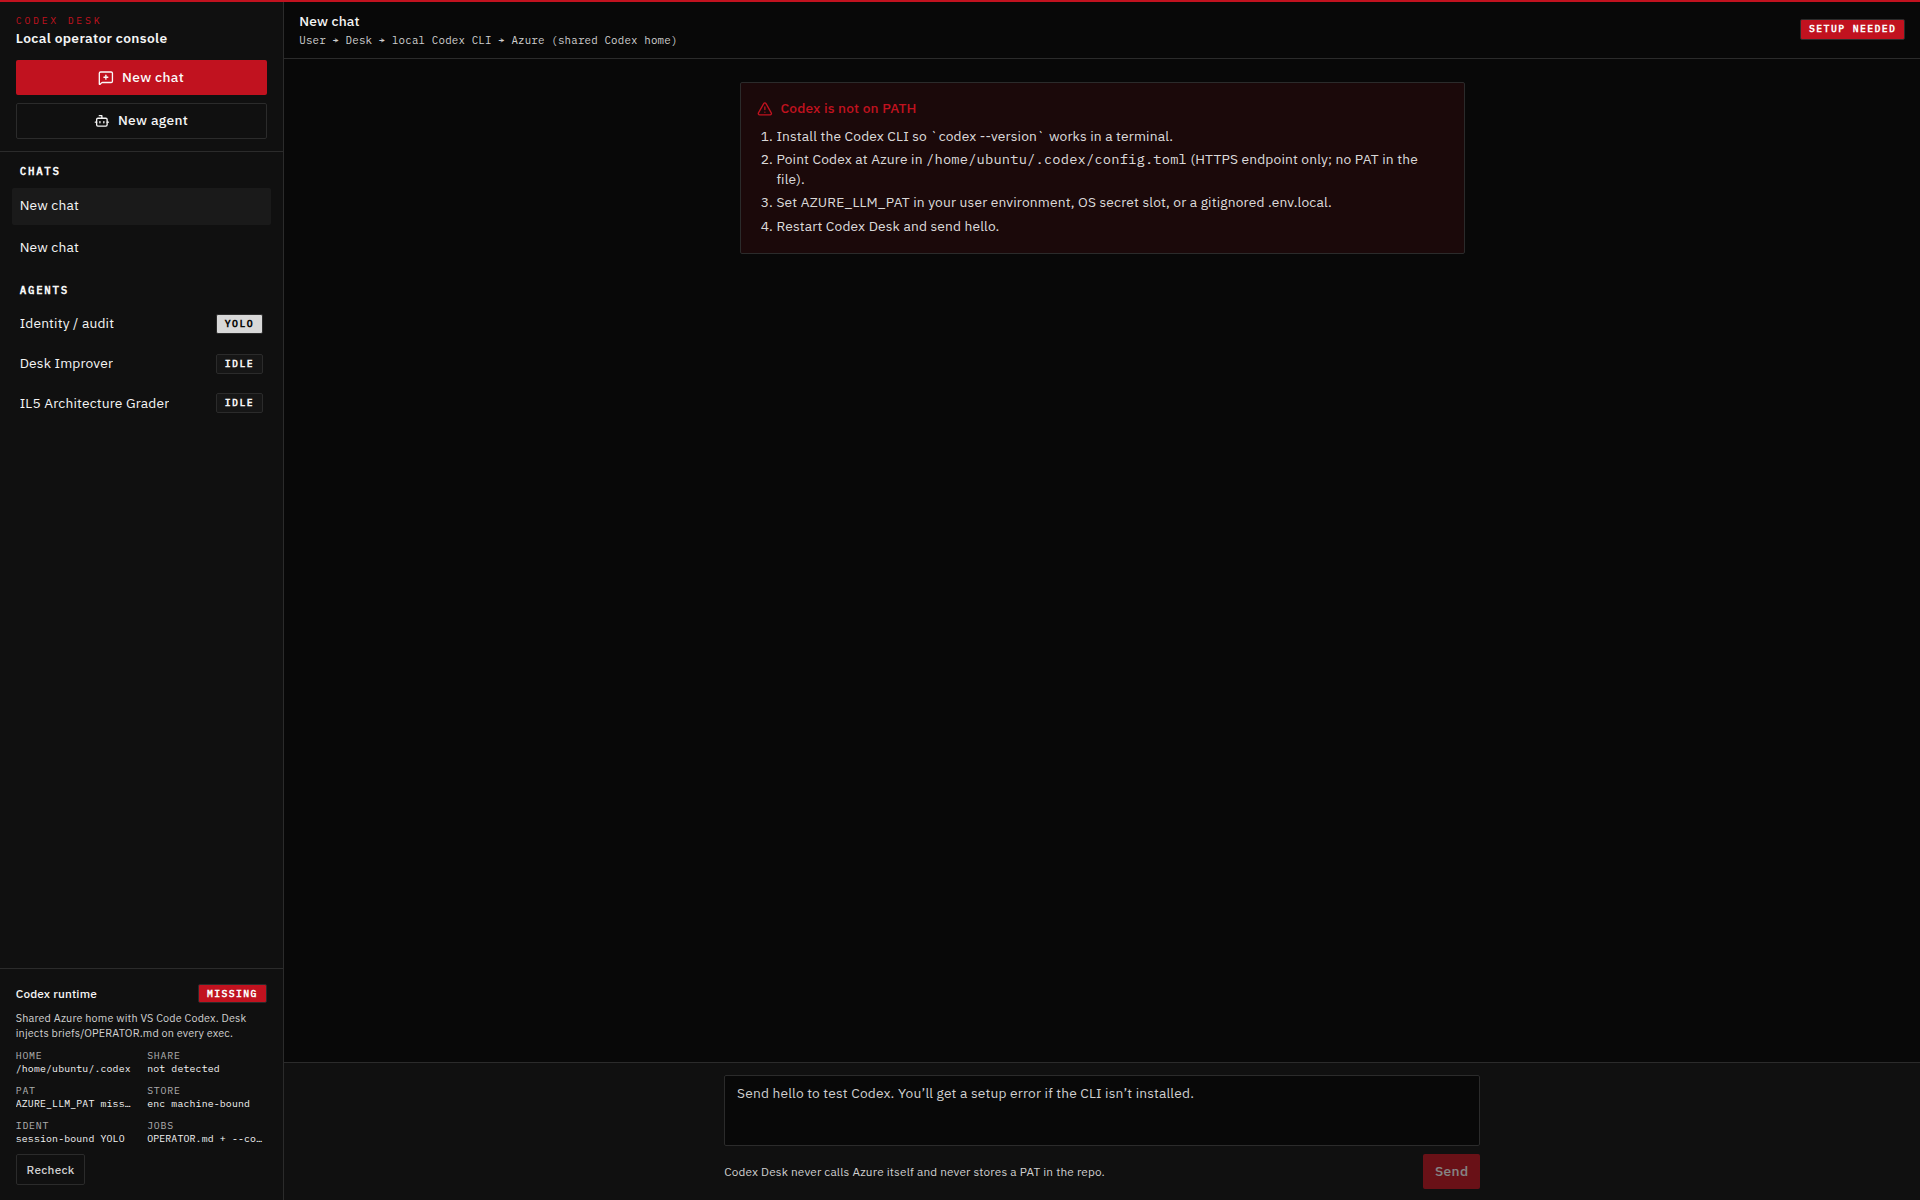
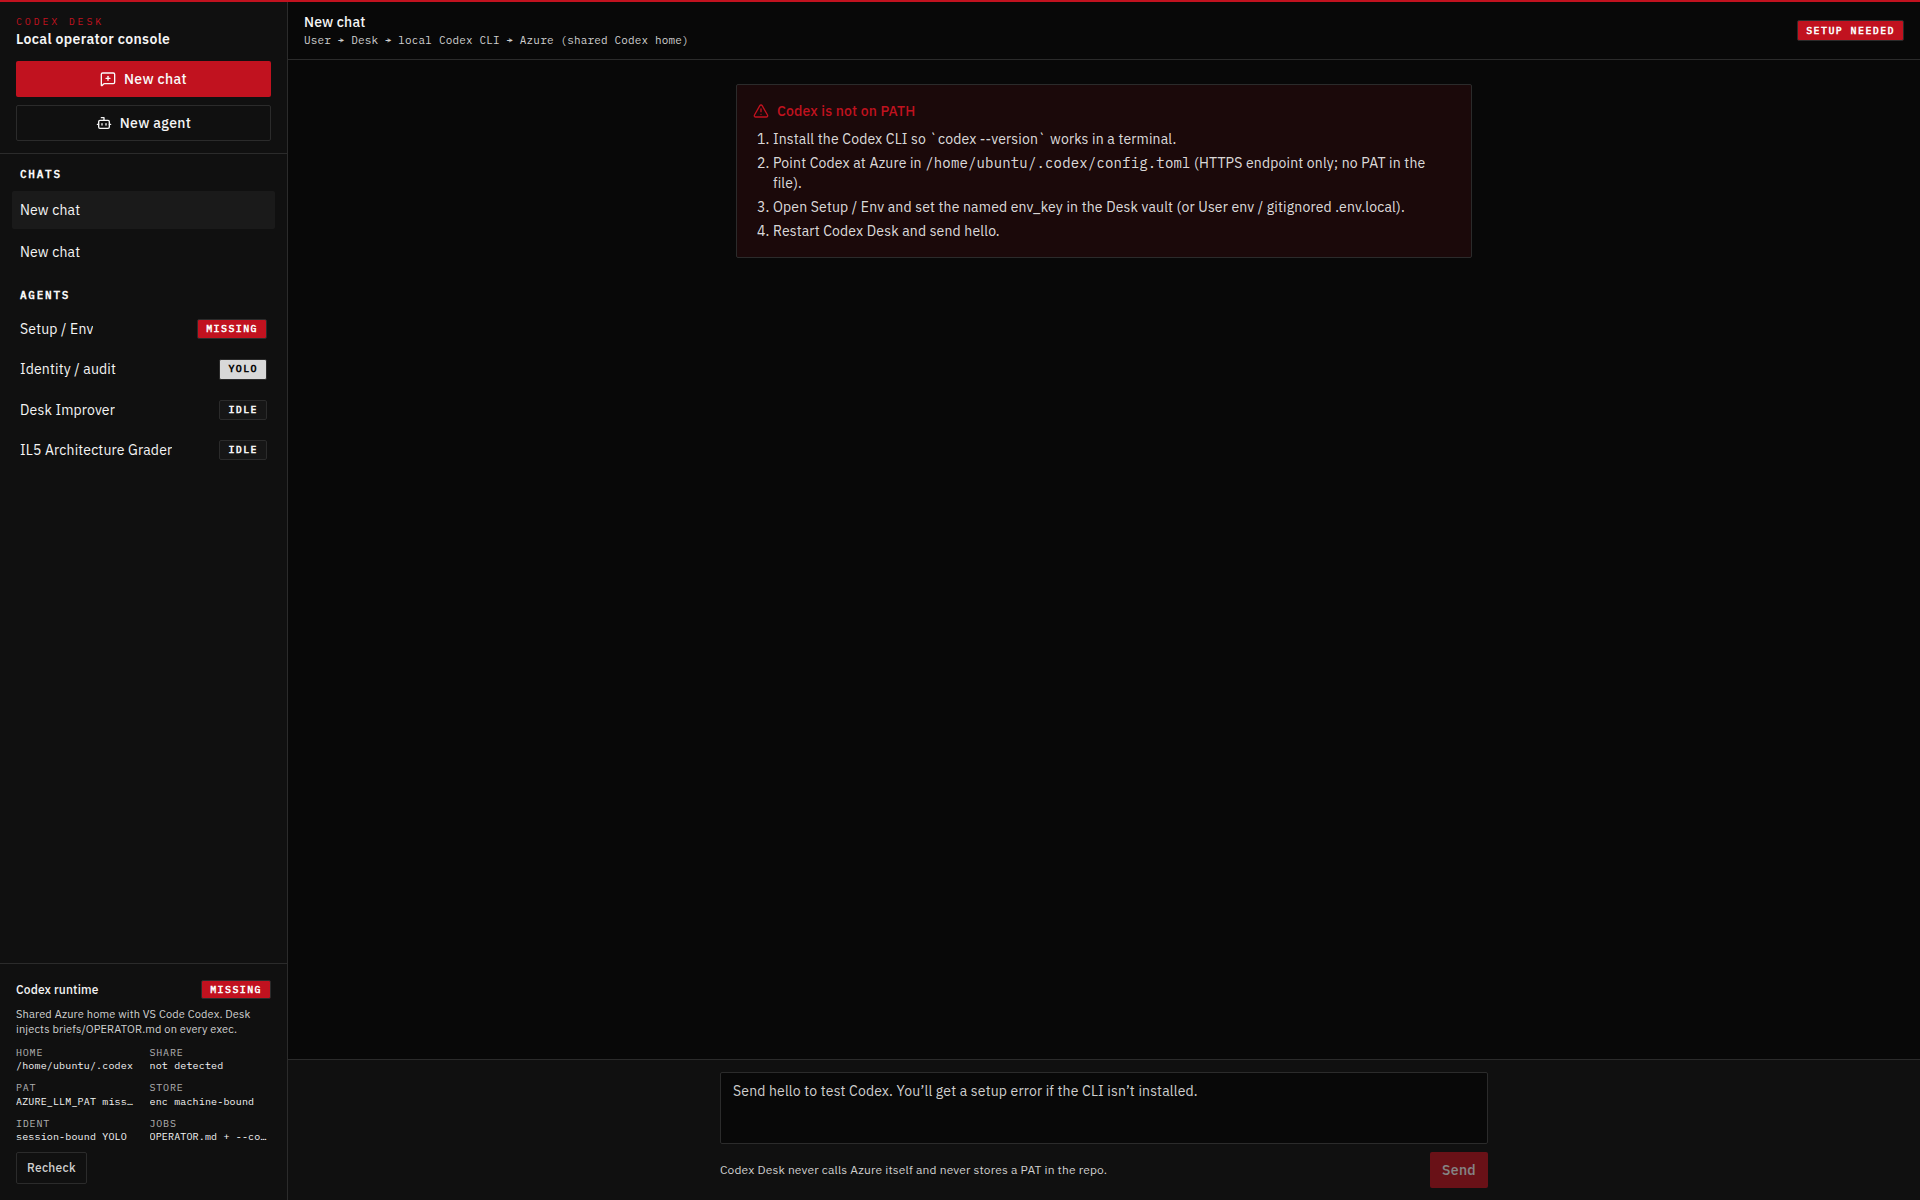
Refresh README gallery to HARNESS-COMPLETE chrome
Replace pre-harness 01–04 captures so captions match Setup/Env, the
six-job grid, autonomy ladder, and failure-upgrade stepper. 04 is now
the env_key inventory (honest MISSING, no secret values).

diff --git a/README.md b/README.md
@@ -211,19 +211,19 @@ Live captures of the local operator shell. Theme is orbital / aero-night only.
 
 ![Main chat and SETUP NEEDED](docs/screenshots/01-setup-chat.png)
 
-Main chat / **SETUP NEEDED**. Codex is not on PATH (runtime **MISSING**, not FOUND). Share not detected; PAT `AZURE_LLM_PAT` miss… Store enc machine-bound. **Identity / audit** **YOLO**. IDENT **session-bound YOLO**. Desk Improver and IL5 Architecture Grader **IDLE**.
+Main chat / **SETUP NEEDED**. Codex is not on PATH (runtime **MISSING**, not FOUND). Sidebar **Setup / Env** **MISSING**. Share not detected; PAT `AZURE_LLM_PAT` miss… Store enc machine-bound. **Identity / audit** **YOLO**. IDENT **session-bound YOLO**. Desk Improver and IL5 Architecture Grader **IDLE**. Setup card step 3: Open **Setup / Env** and set the named `env_key` in the Desk vault.
 
 ![Agents sidebar](docs/screenshots/02-agents-list.png)
 
-Agents list plus operator `hello`. Banner **SETUP NEEDED**. Codex is not on PATH / runtime **MISSING**. Transcript: OPERATOR `hello`, then **CODEX · SETUP OR RUNTIME ERROR** — `codex` CLI was not found on PATH. **Identity / audit** **YOLO**; Desk Improver and IL5 Architecture Grader **IDLE**. Not an Azure-auth HOLD.
+Agents list plus operator `hello`, with **Setup / Env** in the sidebar. Banner **SETUP NEEDED**. Codex is not on PATH / runtime **MISSING**. Transcript: OPERATOR `hello`, then **CODEX · SETUP OR RUNTIME ERROR** — `codex` CLI was not found on PATH. **Setup / Env** **MISSING**; **Identity / audit** **YOLO**; Desk Improver and IL5 Architecture Grader **IDLE**. Not an Azure-auth HOLD.
 
-![Desk Improver hill-climb](docs/screenshots/03-desk-improver-hillclimb.png)
+![Desk Improver harness boards](docs/screenshots/03-desk-improver-hillclimb.png)
 
-Desk Improver live run iteration 0/3 **ERROR** **HOLD**: `codex` CLI was not found on PATH; hill-climb cannot start. That HOLD is CLI-missing, not a write gate. **Identity / audit** **YOLO WRITES**. Workspace path `/workspace`. YOLO always-on when a workspace is set; no attestation form. Runtime **MISSING**. Not an ATO.
+Desk Improver idle boards (no live run). Six-job grid: **Contract** **HOLD** (goal or done criteria missing); **Context** **PASS**; **Tools** **PASS** (Setup / Env reads `config.toml` `env_key` names — do not invent that a secret is set); **State** / **Evidence** / **Recovery** **WARN**. Autonomy ladder: Read / research **Automatic**; Write in workspace **Automatic + checks** (YOLO); Send / merge / deploy **Evidence + approval**; Delete / pay / publish **Explicit human confirmation**. Failure-upgrade stepper Run → Observe → Classify → Patch → Verify → Accept (Observe current); promote map / tool / policy / test. Runtime **MISSING**. Not an ATO.
 
-![Identity / audit](docs/screenshots/04-identity-gate.png)
+![Setup / Env inventory](docs/screenshots/04-setup-env.png)
 
-**Identity / audit** **YOLO WRITES** under **SETUP NEEDED** / Codex runtime **MISSING**. Session ubuntu. Store encrypted (machine-bound). Audit chain intact. PAT slot unset (never SQLite). Egress allowlist local-codex-only. **Export audit**. No attestation form. Posix-user-session bind — not an ATO.
+**Setup / Env** under **SETUP NEEDED** / Codex runtime **MISSING**. **CONFIG MISSING** — no `config.toml`; `env_key` in file: none. Codex config fields `model`, `base_url`, `model_provider`, `env_key` all **MISSING**. Environment keys `AZURE_LLM_ENDPOINT`, `AZURE_LLM_PAT`, `AZURE_OPENAI_API_KEY`, `AZURE_OPENAI_DEPLOYMENT`, `AZURE_OPENAI_ENDPOINT` **MISSING** (source + grade). Vault inputs empty — no secret values shown. Do not invent FOUND. Sidebar **Setup / Env** **MISSING**. YOLO writes stay always-on; send/merge/deploy still need evidence + approval. Not an ATO.
 
 ## Known limits
 
